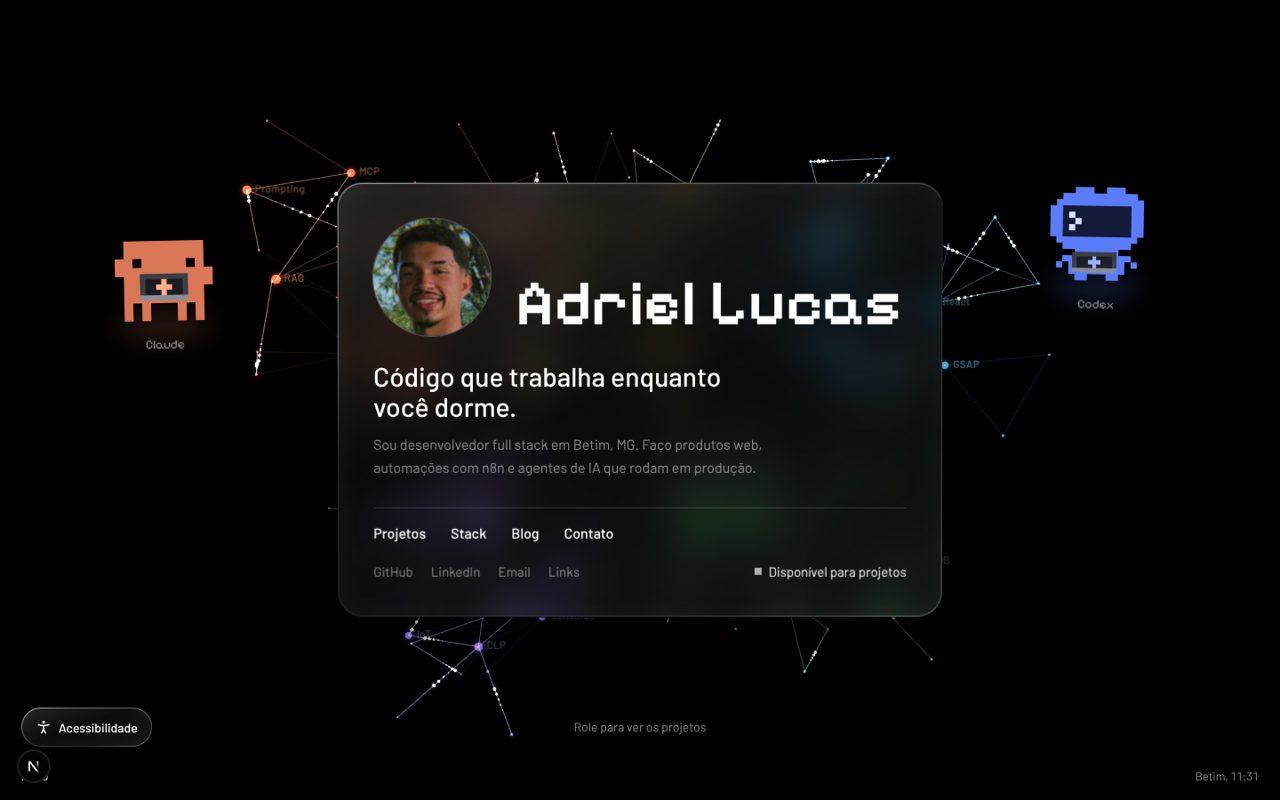
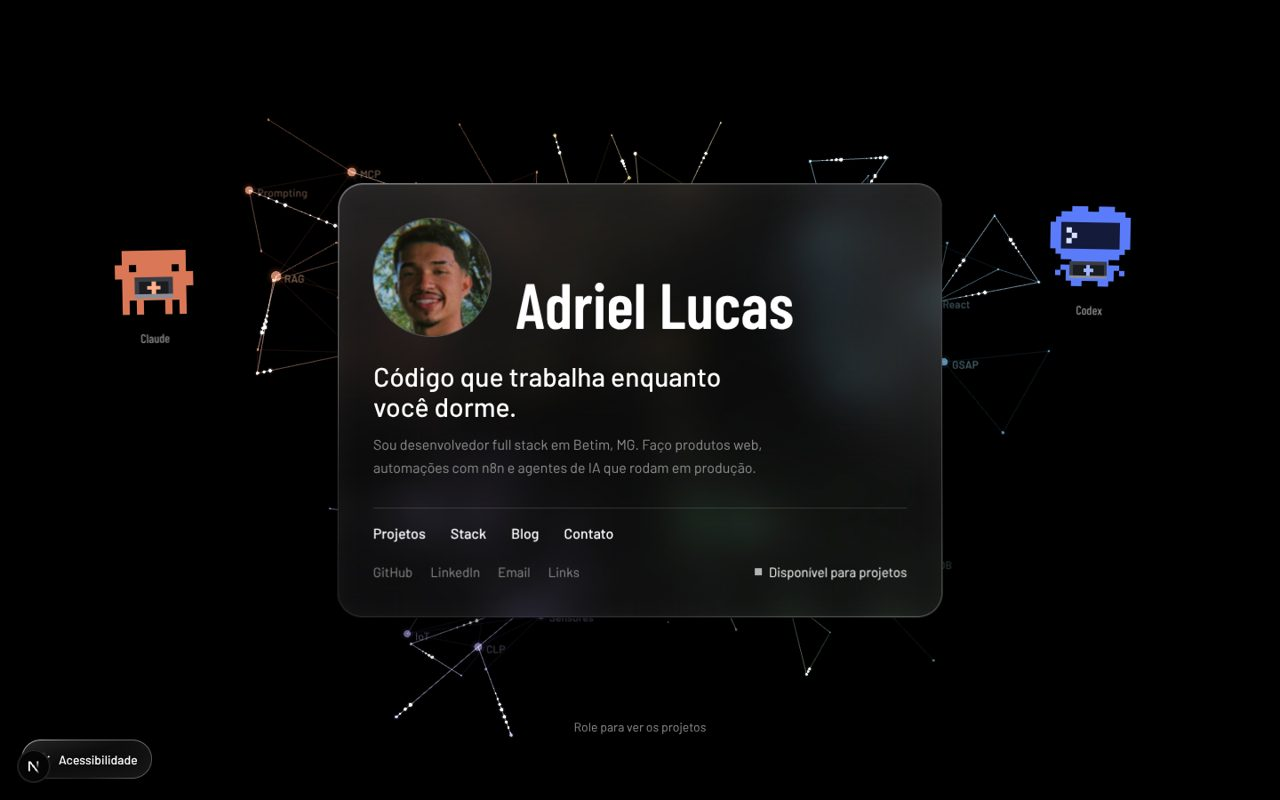
Make the visual language more mature
- Headings use Barlow Condensed instead of a pixel font; pixel art is
  kept only for the Claude and Codex characters
- Dock icons become monochrome glass tiles with thin white glyphs
- Mascots slightly smaller and without colored glow
- Graph community colors muted
- Refresh the portfolio project screenshot

Claude-Session: https://claude.ai/code/session_01HyNkJVVgikq4mBJe8fr5es

diff --git a/web/components/experience/Dock.tsx b/web/components/experience/Dock.tsx
@@ -13,21 +13,23 @@ type Item = {
   href?: string;
 };
 
-const stroke = { stroke: "white", strokeWidth: 1.8, fill: "none", strokeLinecap: "round" as const, strokeLinejoin: "round" as const };
+const TILE = "linear-gradient(180deg, rgba(255,255,255,0.16), rgba(255,255,255,0.05))";
+
+const stroke = { stroke: "rgba(255,255,255,0.92)", strokeWidth: 1.5, fill: "none", strokeLinecap: "round" as const, strokeLinejoin: "round" as const };
 
 const ITEMS: (Item | "divider")[] = [
   {
     id: "projects",
     label: "Projetos",
     section: "projects",
-    tile: "linear-gradient(180deg,#6fc3ff,#2a7de1)",
+    tile: TILE,
     icon: <path d="M3 7.5A1.5 1.5 0 0 1 4.5 6H9l2 2h8.5A1.5 1.5 0 0 1 21 9.5v8a1.5 1.5 0 0 1-1.5 1.5h-15A1.5 1.5 0 0 1 3 17.5z" {...stroke} />,
   },
   {
     id: "stack",
     label: "Stack",
     section: "stack",
-    tile: "linear-gradient(180deg,#5a5d68,#23252b)",
+    tile: TILE,
     icon: (
       <g {...stroke}>
         <rect x="7" y="7" width="10" height="10" rx="1.5" />
@@ -39,14 +41,14 @@ const ITEMS: (Item | "divider")[] = [
     id: "blog",
     label: "Blog",
     section: "blog",
-    tile: "linear-gradient(180deg,#ffd66b,#f29a2e)",
+    tile: TILE,
     icon: <path d="M7 4h7l4 4v12H7zM14 4v4h4M9.5 12h6M9.5 15.5h6" {...stroke} />,
   },
   {
     id: "contact",
     label: "Contato",
     section: "contact",
-    tile: "linear-gradient(180deg,#7be495,#2fb35a)",
+    tile: TILE,
     icon: <path d="M4 7h16v10H4zM4 7l8 6 8-6" {...stroke} />,
   },
   "divider",
@@ -54,15 +56,15 @@ const ITEMS: (Item | "divider")[] = [
     id: "github",
     label: "GitHub",
     href: "https://github.com/adrielpax",
-    tile: "linear-gradient(180deg,#2b2d33,#0d0e10)",
+    tile: TILE,
     icon: <path d="M9 18l-5-6 5-6M15 6l5 6-5 6" {...stroke} />,
   },
   {
     id: "links",
     label: "Links",
     href: "/links",
-    tile: "linear-gradient(180deg,#e9e9ee,#b9bac2)",
-    icon: <path d="M10 14a4 4 0 0 0 5.7 0l3-3a4 4 0 0 0-5.7-5.7l-1 1M14 10a4 4 0 0 0-5.7 0l-3 3a4 4 0 0 0 5.7 5.7l1-1" {...stroke} stroke="#1d1d1f" />,
+    tile: TILE,
+    icon: <path d="M10 14a4 4 0 0 0 5.7 0l3-3a4 4 0 0 0-5.7-5.7l-1 1M14 10a4 4 0 0 0-5.7 0l-3 3a4 4 0 0 0 5.7 5.7l1-1" {...stroke} />,
   },
 ];
 

diff --git a/web/components/sections/Projects.tsx b/web/components/sections/Projects.tsx
@@ -17,7 +17,7 @@ function Cover({ p, large = false }: { p: Project; large?: boolean }) {
       role="img"
       aria-label={`Capa do projeto ${p.title}`}
     >
-      <span className={`font-pixel font-semibold leading-none text-white/85 ${large ? "text-[56px]" : "text-[30px]"}`}>{p.title}</span>
+      <span className={`font-display font-semibold leading-none text-white/85 ${large ? "text-[56px]" : "text-[30px]"}`}>{p.title}</span>
     </div>
   );
 }
@@ -57,7 +57,7 @@ function QuickLook({ p, onClose }: { p: Project; onClose: () => void }) {
             <p className="text-[14px] text-dim">
               {p.status}, {p.year}
             </p>
-            <h3 className="mt-2 font-pixel text-[34px] font-semibold leading-none">{p.title}</h3>
+            <h3 className="mt-2 font-display text-[34px] font-semibold leading-none">{p.title}</h3>
             <p className="mt-3 max-w-[56ch] text-[16px] leading-snug text-dim">{p.description}</p>
             <p className="mt-3 text-[14px] text-paper/70">{p.tags.join(", ")}</p>
           </div>
@@ -110,7 +110,7 @@ export function Projects() {
                 <span className="text-[13px] text-dim">
                   {p.status}, {p.year}
                 </span>
-                <h3 className="mt-2 font-pixel text-[22px] font-semibold leading-none md:text-[28px]">{p.title}</h3>
+                <h3 className="mt-2 font-display text-[22px] font-semibold leading-none md:text-[28px]">{p.title}</h3>
                 <p className="mt-2 line-clamp-3 text-[14px] leading-snug text-dim md:text-[15px]">{p.description}</p>
                 <span className="mt-auto pt-3 text-[13px] text-paper/70">{p.tags.join(", ")}</span>
               </div>

diff --git a/web/components/pixel/Agent.tsx b/web/components/pixel/Agent.tsx
@@ -65,7 +65,7 @@ function MiniChat({ def, open, onClose, id }: { def: AgentDef; open: boolean; on
       }`}
     >
       <div className="flex items-center justify-between px-4 pb-1 pt-3">
-        <span className="flex items-center gap-2 font-pixel text-[16px]">
+        <span className="flex items-center gap-2 font-display text-[16px]">
           <span className="h-2 w-2 rounded-full" style={{ background: def.accent }} />
           {def.name}
         </span>
@@ -141,11 +141,6 @@ export function Agent({ def }: { def: AgentDef }) {
               <div className="absolute" style={{ left: def.laptop.x * def.px, top: def.laptop.y * def.px }}>
                 <PixelSprite sprite={def.laptop.sprite} px={def.px * def.laptop.scale} />
               </div>
-              <span
-                className="pointer-events-none absolute inset-x-2 -bottom-3 h-3 rounded-full opacity-50 blur-lg"
-                style={{ background: def.accent }}
-                aria-hidden
-              />
             </div>
 
             {/* botão flutuante de chat */}
@@ -164,7 +159,7 @@ export function Agent({ def }: { def: AgentDef }) {
               </svg>
             </button>
 
-            <div className="mt-4 text-center font-pixel text-[14px] text-dim">{def.name}</div>
+            <div className="mt-4 text-center font-display text-[14px] text-dim">{def.name}</div>
           </div>
         </div>
       </div>

diff --git a/web/lib/graph.ts b/web/lib/graph.ts
@@ -16,35 +16,35 @@ export const communities: Community[] = [
   {
     id: "ai",
     name: "IA & agentes",
-    color: "#ff9f6b",
+    color: "#d9a185",
     center: [-2.6, 1.0, 0.4],
     nodes: ["Claude", "Codex", "LLMs", "RAG", "MCP", "Agentes", "Embeddings", "Prompting"],
   },
   {
     id: "python",
     name: "Python",
-    color: "#f5d76e",
+    color: "#d8c58a",
     center: [-0.2, 2.0, -1.4],
     nodes: ["Python", "FastAPI", "Pandas", "NumPy", "PyTorch", "Jupyter"],
   },
   {
     id: "front",
     name: "Frontend",
-    color: "#72d6ff",
+    color: "#8fc3db",
     center: [2.7, 0.9, 0.2],
     nodes: ["React", "Next.js", "TypeScript", "Tailwind", "Three.js", "GSAP", "React Native"],
   },
   {
     id: "back",
     name: "Backend",
-    color: "#86e3a0",
+    color: "#96c7a4",
     center: [1.6, -1.6, -0.6],
     nodes: ["Node.js", "Fastify", "PostgreSQL", "MongoDB", "Docker", "Nginx", "REST/GraphQL"],
   },
   {
     id: "industrial",
     name: "Automação industrial",
-    color: "#b99bff",
+    color: "#ada2d6",
     center: [-2.0, -1.7, -0.2],
     nodes: ["CLP", "SCADA", "Modbus", "OPC UA", "MQTT", "Sensores", "IoT", "n8n"],
   },

diff --git a/web/app/globals.css b/web/app/globals.css
@@ -1,8 +1,8 @@
 @import "tailwindcss";
 
 @theme {
-  /* display em pixel (com minúsculas reais) + texto em Barlow (família DIN, sinalização industrial) */
-  --font-pixel: "Pixelify Sans", system-ui, sans-serif;
+  /* display condensada (linha aeroespacial/industrial) + texto em Barlow (família DIN) */
+  --font-display: "Barlow Condensed", system-ui, sans-serif;
   --font-mono: "Barlow", system-ui, sans-serif;
 
   /* preto e branco puros; as únicas cores pertencem aos personagens */
@@ -118,15 +118,15 @@ body {
 }
 
 .display {
-  font-family: var(--font-pixel);
+  font-family: var(--font-display);
   font-weight: 600;
-  line-height: 0.95;
-  letter-spacing: -0.01em;
-  font-size: 44px;
+  line-height: 0.92;
+  letter-spacing: -0.015em;
+  font-size: 48px;
 }
 @media (min-width: 768px) {
   .display {
-    font-size: 88px;
+    font-size: 84px;
   }
 }
 
@@ -261,7 +261,7 @@ body {
   gap: 4px;
 }
 .layer-label__title {
-  font-family: var(--font-pixel);
+  font-family: var(--font-display);
   font-size: 18px;
   color: var(--color-paper);
 }

diff --git a/web/app/links/page.tsx b/web/app/links/page.tsx
@@ -27,7 +27,7 @@ export default function LinksPage() {
               </div>
             </div>
           </div>
-          <h1 className="mt-6 font-pixel text-[40px] font-semibold leading-none">{profile.name}</h1>
+          <h1 className="mt-6 font-display text-[40px] font-semibold leading-none">{profile.name}</h1>
           <p className="mt-3 text-[18px] leading-snug text-dim">{profile.headline}</p>
         </header>
 
@@ -36,7 +36,7 @@ export default function LinksPage() {
             const external = l.href.startsWith("http") || l.href.startsWith("mailto");
             const inner = (
               <>
-                <span className="font-pixel text-[24px] font-semibold leading-none">{l.label}</span>
+                <span className="font-display text-[24px] font-semibold leading-none">{l.label}</span>
                 <span className="text-[15px] text-dim">{l.note}</span>
               </>
             );

diff --git a/web/components/experience/Navbar.tsx b/web/components/experience/Navbar.tsx
@@ -54,7 +54,7 @@ export function Navbar({ active, go }: { active: SectionId; go: (id: SectionId) 
             <ProfilePhoto className="h-full w-full" alt="" />
           </div>
           <div className="nav-chrome invisible hidden text-left opacity-0 lg:block">
-            <div className="font-pixel text-[18px] font-semibold leading-none">{profile.name}</div>
+            <div className="font-display text-[18px] font-semibold leading-none">{profile.name}</div>
             <div className="mt-1 flex items-center gap-1.5 text-[12px] text-dim">
               <span className="led" style={{ ["--led" as string]: LED_ON }} aria-hidden />
               Online em Betim <span className="tabular-nums text-paper/80">{time}</span>

diff --git a/web/components/pixel/agents.ts b/web/components/pixel/agents.ts
@@ -25,7 +25,7 @@ export const agents: AgentDef[] = [
     name: "Claude",
     accent: "#d97757",
     sprite: claudeSprite,
-    px: 10,
+    px: 8,
     laptop: { sprite: laptopSprite(9, "#ffb08a"), x: 2.8, y: 3.7, scale: 0.6 },
     greeting: "Oi! Sou o Claude. Estou programando com o Adriel neste portfólio. Quer falar com ele?",
     side: "left",
@@ -53,7 +53,7 @@ export const agents: AgentDef[] = [
     name: "Codex",
     accent: "#5b7cfa",
     sprite: codexSprite,
-    px: 7,
+    px: 6,
     laptop: { sprite: laptopSprite(11, "#9fb4ff"), x: 3.6, y: 10.4, scale: 0.65 },
     greeting: "Codex aqui. Posso abrir uma sessão e te mostrar o que o Adriel está construindo.",
     side: "right",

diff --git a/web/components/sections/Stack.tsx b/web/components/sections/Stack.tsx
@@ -19,7 +19,7 @@ export function Stack() {
             <ul className="mb-4 grid grid-cols-2 gap-x-4 gap-y-2 md:hidden">
               {stackLayers.map((l) => (
                 <li key={l.code} className="text-[14px] leading-tight">
-                  <span className="font-pixel text-[16px]">{l.name}</span>
+                  <span className="font-display text-[16px]">{l.name}</span>
                   <span className="block text-dim">{l.items.slice(0, 2).join(", ")}</span>
                 </li>
               ))}

diff --git a/web/components/experience/HeroCard.tsx b/web/components/experience/HeroCard.tsx
@@ -22,7 +22,7 @@ export function HeroCard({ go }: { go: (id: SectionId) => void }) {
             </div>
           </div>
           <div className="hero-copy min-w-0 pb-1">
-            <h1 className="intro font-pixel text-[38px] font-semibold leading-[0.9] sm:text-[60px] md:text-[72px]">
+            <h1 className="intro font-display text-[38px] font-semibold leading-[0.9] sm:text-[60px] md:text-[72px]">
               {profile.name}
             </h1>
           </div>

diff --git a/web/app/layout.tsx b/web/app/layout.tsx
@@ -1,6 +1,6 @@
 import type { Metadata, Viewport } from "next";
-import "@fontsource/pixelify-sans/400.css";
-import "@fontsource/pixelify-sans/600.css";
+import "@fontsource/barlow-condensed/500.css";
+import "@fontsource/barlow-condensed/600.css";
 import "@fontsource/barlow/400.css";
 import "@fontsource/barlow/500.css";
 import "@fontsource/barlow/600.css";

diff --git a/web/docs/PLANO.md b/web/docs/PLANO.md
@@ -24,7 +24,7 @@ A primeira versão caiu em padrões típicos de página gerada por IA (preto azu
 | Comunidades do grafo | laranja, amarelo, ciano, verde, lilás | IA, Python, Frontend, Backend, Automação industrial |
 
 - **Vidro estilo Apple (Liquid Glass)**: `.glass` em `app/globals.css`. Desfoque + saturação, aro de refração, brilho especular que segue o ponteiro e hover com mola. Usado no card do hero, na moldura, na navbar (pílula), nos cards, no blog, no formulário e nos chats dos agentes.
-- **Tipografia**: Pixelify Sans (pixel com minúsculas reais) nos títulos em caixa normal; Barlow (família DIN, sinalização industrial) no texto.
+- **Tipografia**: Barlow Condensed nos títulos (o pixel fica só nos personagens); Barlow (família DIN, sinalização industrial) no texto.
 - **Movimento**: um único momento de palco, o card virando navbar. Seções trocam por fade. Sem tela de boot e sem texto embaralhando.
 - **Grafo de fundo no estilo graphify**: comunidades coloridas, nós nomeados com rótulo, satélites e pontes entre áreas (`lib/graph.ts`), layout por forças e pulsos percorrendo as ligações.
 
@@ -109,7 +109,7 @@ A navbar faz `scrollTo` para o rótulo; links `/#blog` funcionam vindos de outra
 | Estilo | Tailwind CSS 4 | tokens no `@theme`, sem arquivo de config |
 | 3D | three + @react-three/fiber 9 | cena declarativa; shaders próprios |
 | Animação | GSAP 3 + ScrollTrigger + @gsap/react | timeline única com scrub/snap e rótulos |
-| Fontes | @fontsource (Pixelify Sans, Barlow) | self-hosted, sem depender de rede no build |
+| Fontes | @fontsource (Barlow Condensed, Barlow) | self-hosted, sem depender de rede no build |
 
 ## 8. Performance e acessibilidade
 
